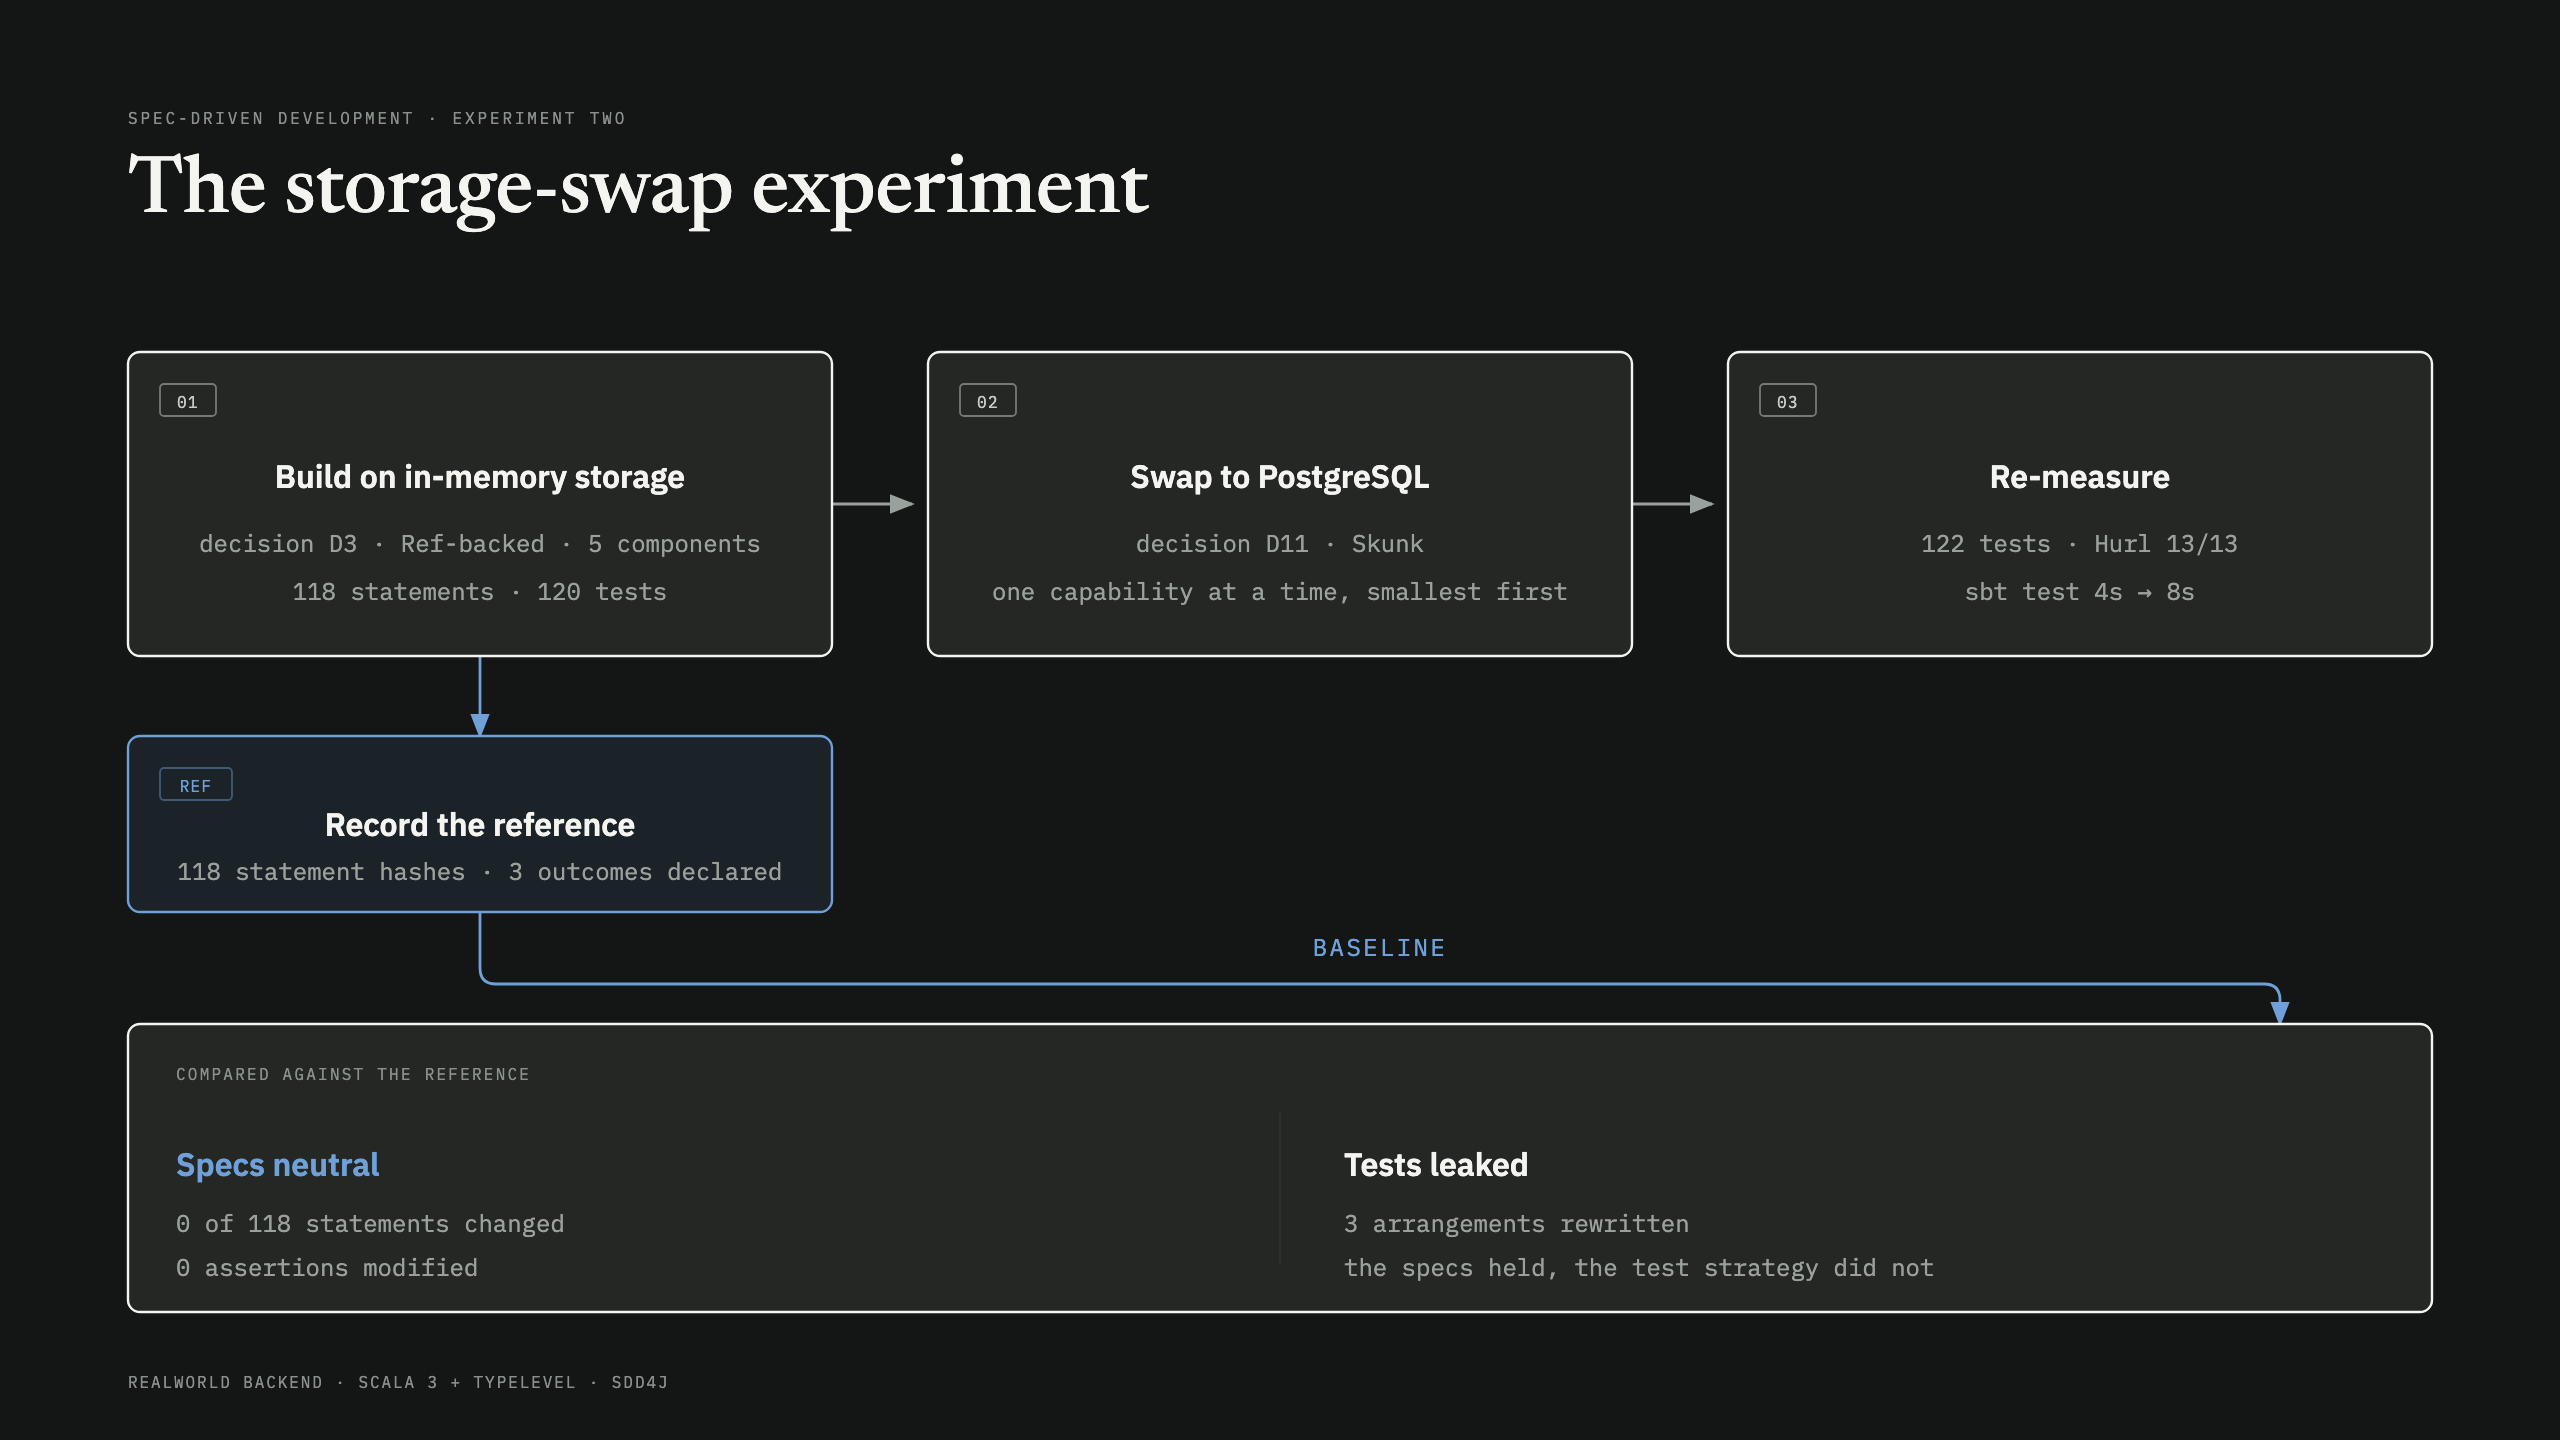
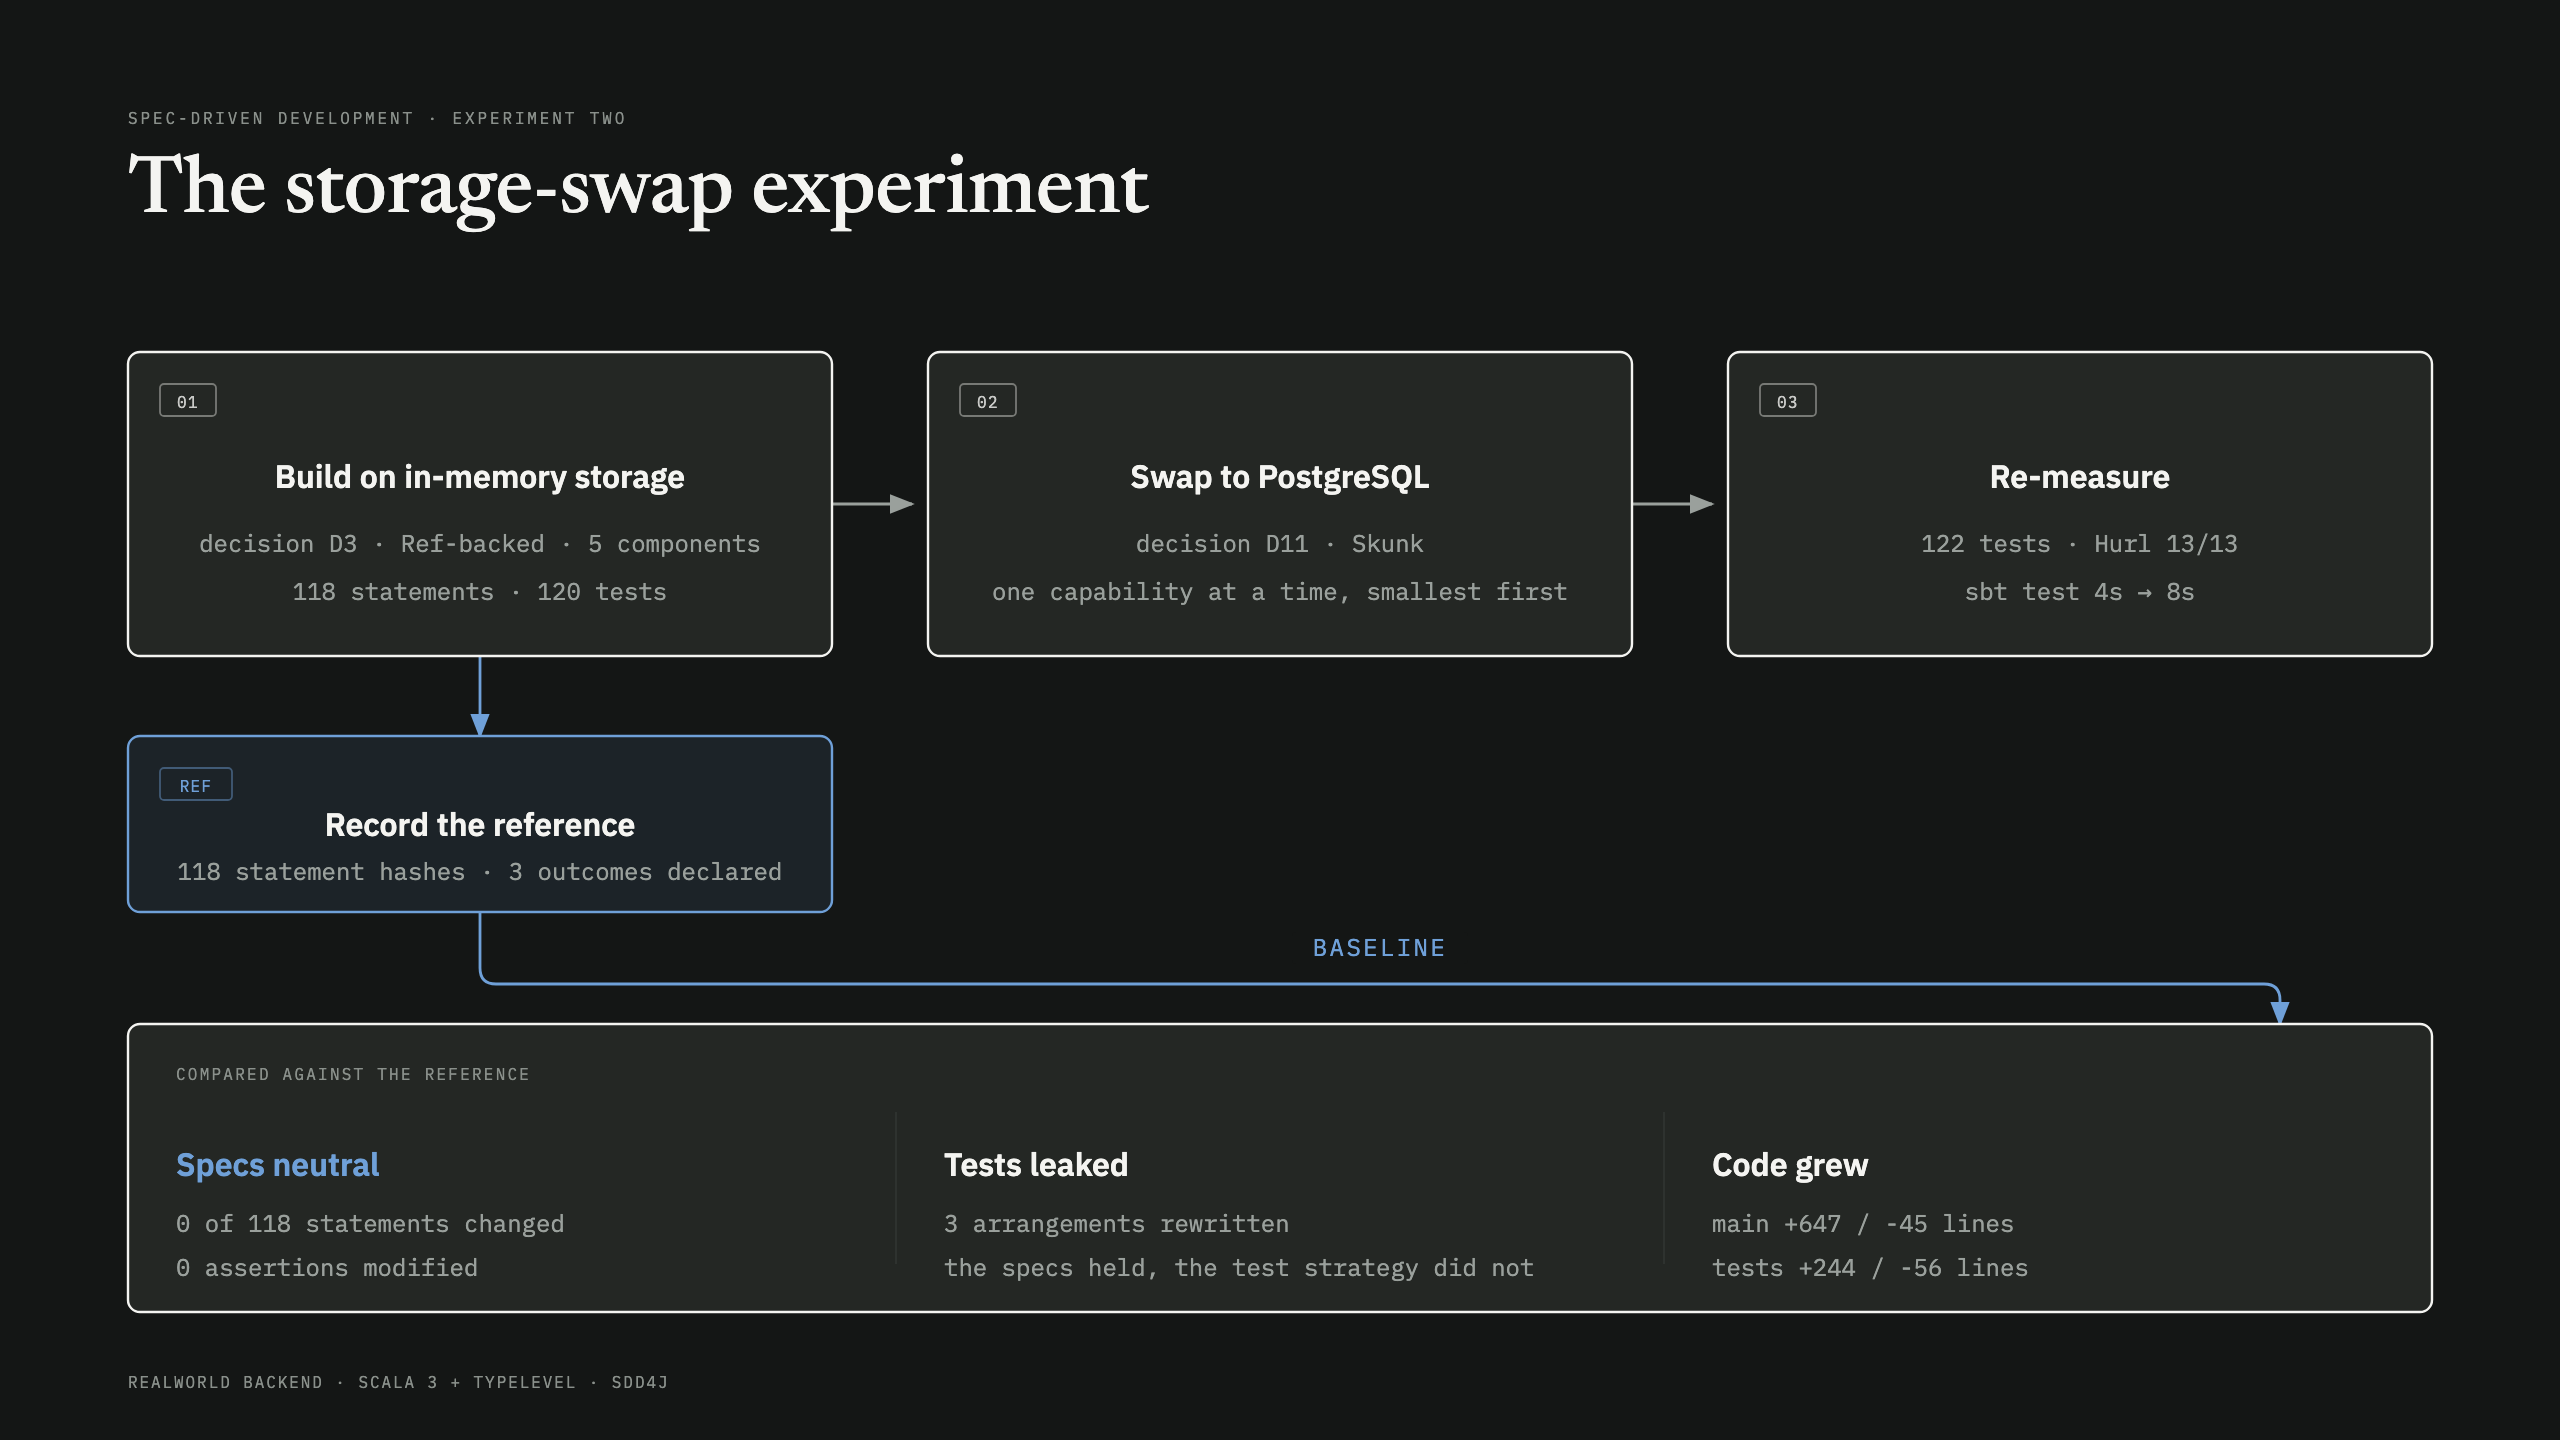
docs: add a code-delta column to the experiment figure
The talk carried a metrics table beside this figure, and five of its
seven rows were already here. The two that were not are the line
deltas, so they become a third comparison column and the table goes.

Segment layout moves from a two-column split at x=640 to three at 448
and 832; the alt text gains the same numbers.

Changed region(s): [[0.375, 0.7812, 0.7812, 0.9062], [0.5312, 0.7812, 0.5938, 0.8125], [0.375, 0.7812, 0.4375, 0.8125]]

diff --git a/docs/experiment-slide-dark.html b/docs/experiment-slide-dark.html
@@ -40,7 +40,7 @@
      and a slide image has to stand on its own once it is dropped into a deck. -->
 <svg viewBox="0 0 1280 720" role="img" aria-labelledby="swap-slide-dark-title swap-slide-dark-desc" xmlns="http://www.w3.org/2000/svg">
   <title id="swap-slide-dark-title">The storage-swap experiment</title>
-  <desc id="swap-slide-dark-desc">Three steps run left to right: build the backend on in-memory storage, swap it to PostgreSQL, then re-measure. A reference recorded under the first step, holding a hash of each of the 118 requirement statements and the three outcomes declared in advance, is carried across the slide to the comparison at the bottom. The specifications came through unchanged; three test arrangements did not.</desc>
+  <desc id="swap-slide-dark-desc">Three steps run left to right: build the backend on in-memory storage, swap it to PostgreSQL, then re-measure. A reference recorded under the first step, holding a hash of each of the 118 requirement statements and the three outcomes declared in advance, is carried across the slide to the comparison at the bottom. The specifications came through unchanged; three test arrangements did not, and the code grew by 647 lines of implementation and 244 of tests.</desc>
 
   <defs>
     <marker id="slide-dark-arrow" markerWidth="9" markerHeight="7" refX="8" refY="3.5" orient="auto">
@@ -127,17 +127,23 @@
   <rect x="64" y="512" width="1152" height="144" rx="6" fill="#242724" stroke="#F4F4F1" stroke-width="1.2"/>
   <text x="88" y="540" fill="#8A908B" font-size="8" font-family="'IBM Plex Mono', monospace"
         letter-spacing="0.14em">COMPARED AGAINST THE REFERENCE</text>
-  <line x1="640" y1="556" x2="640" y2="632" stroke="#2E322F" stroke-width="1"/>
+  <line x1="448" y1="556" x2="448" y2="632" stroke="#2E322F" stroke-width="1"/>
+  <line x1="832" y1="556" x2="832" y2="632" stroke="#2E322F" stroke-width="1"/>
 
   <text x="88" y="588" fill="#6FA0D8" font-size="16" font-weight="600"
         font-family="'IBM Plex Sans', sans-serif">Specs neutral</text>
   <text x="88" y="616" fill="#9AA09C" font-size="12" font-family="'IBM Plex Mono', monospace">0 of 118 statements changed</text>
   <text x="88" y="638" fill="#9AA09C" font-size="12" font-family="'IBM Plex Mono', monospace">0 assertions modified</text>
 
-  <text x="672" y="588" fill="#F4F4F1" font-size="16" font-weight="600"
+  <text x="472" y="588" fill="#F4F4F1" font-size="16" font-weight="600"
         font-family="'IBM Plex Sans', sans-serif">Tests leaked</text>
-  <text x="672" y="616" fill="#9AA09C" font-size="12" font-family="'IBM Plex Mono', monospace">3 arrangements rewritten</text>
-  <text x="672" y="638" fill="#9AA09C" font-size="12" font-family="'IBM Plex Mono', monospace">the specs held, the test strategy did not</text>
+  <text x="472" y="616" fill="#9AA09C" font-size="12" font-family="'IBM Plex Mono', monospace">3 arrangements rewritten</text>
+  <text x="472" y="638" fill="#9AA09C" font-size="12" font-family="'IBM Plex Mono', monospace">the specs held, the test strategy did not</text>
+
+  <text x="856" y="588" fill="#F4F4F1" font-size="16" font-weight="600"
+        font-family="'IBM Plex Sans', sans-serif">Code grew</text>
+  <text x="856" y="616" fill="#9AA09C" font-size="12" font-family="'IBM Plex Mono', monospace">main  +647 / -45 lines</text>
+  <text x="856" y="638" fill="#9AA09C" font-size="12" font-family="'IBM Plex Mono', monospace">tests +244 / -56 lines</text>
 
   <!-- ===== footer ===== -->
   <text x="64" y="694" fill="#8A908B" font-size="8" font-family="'IBM Plex Mono', monospace"

diff --git a/docs/experiment-slide.html b/docs/experiment-slide.html
@@ -40,7 +40,7 @@
      and a slide image has to stand on its own once it is dropped into a deck. -->
 <svg viewBox="0 0 1280 720" role="img" aria-labelledby="swap-slide-title swap-slide-desc" xmlns="http://www.w3.org/2000/svg">
   <title id="swap-slide-title">The storage-swap experiment</title>
-  <desc id="swap-slide-desc">Three steps run left to right: build the backend on in-memory storage, swap it to PostgreSQL, then re-measure. A reference recorded under the first step, holding a hash of each of the 118 requirement statements and the three outcomes declared in advance, is carried across the slide to the comparison at the bottom. The specifications came through unchanged; three test arrangements did not.</desc>
+  <desc id="swap-slide-desc">Three steps run left to right: build the backend on in-memory storage, swap it to PostgreSQL, then re-measure. A reference recorded under the first step, holding a hash of each of the 118 requirement statements and the three outcomes declared in advance, is carried across the slide to the comparison at the bottom. The specifications came through unchanged; three test arrangements did not, and the code grew by 647 lines of implementation and 244 of tests.</desc>
 
   <defs>
     <marker id="slide-arrow" markerWidth="9" markerHeight="7" refX="8" refY="3.5" orient="auto">
@@ -127,17 +127,23 @@
   <rect x="64" y="512" width="1152" height="144" rx="6" fill="#FFFFFF" stroke="#1A1C1B" stroke-width="1.2"/>
   <text x="88" y="540" fill="#8B908C" font-size="8" font-family="'IBM Plex Mono', monospace"
         letter-spacing="0.14em">COMPARED AGAINST THE REFERENCE</text>
-  <line x1="640" y1="556" x2="640" y2="632" stroke="#DEDFD8" stroke-width="1"/>
+  <line x1="448" y1="556" x2="448" y2="632" stroke="#DEDFD8" stroke-width="1"/>
+  <line x1="832" y1="556" x2="832" y2="632" stroke="#DEDFD8" stroke-width="1"/>
 
   <text x="88" y="588" fill="#1E3A5F" font-size="16" font-weight="600"
         font-family="'IBM Plex Sans', sans-serif">Specs neutral</text>
   <text x="88" y="616" fill="#636865" font-size="12" font-family="'IBM Plex Mono', monospace">0 of 118 statements changed</text>
   <text x="88" y="638" fill="#636865" font-size="12" font-family="'IBM Plex Mono', monospace">0 assertions modified</text>
 
-  <text x="672" y="588" fill="#1A1C1B" font-size="16" font-weight="600"
+  <text x="472" y="588" fill="#1A1C1B" font-size="16" font-weight="600"
         font-family="'IBM Plex Sans', sans-serif">Tests leaked</text>
-  <text x="672" y="616" fill="#636865" font-size="12" font-family="'IBM Plex Mono', monospace">3 arrangements rewritten</text>
-  <text x="672" y="638" fill="#636865" font-size="12" font-family="'IBM Plex Mono', monospace">the specs held, the test strategy did not</text>
+  <text x="472" y="616" fill="#636865" font-size="12" font-family="'IBM Plex Mono', monospace">3 arrangements rewritten</text>
+  <text x="472" y="638" fill="#636865" font-size="12" font-family="'IBM Plex Mono', monospace">the specs held, the test strategy did not</text>
+
+  <text x="856" y="588" fill="#1A1C1B" font-size="16" font-weight="600"
+        font-family="'IBM Plex Sans', sans-serif">Code grew</text>
+  <text x="856" y="616" fill="#636865" font-size="12" font-family="'IBM Plex Mono', monospace">main  +647 / -45 lines</text>
+  <text x="856" y="638" fill="#636865" font-size="12" font-family="'IBM Plex Mono', monospace">tests +244 / -56 lines</text>
 
   <!-- ===== footer ===== -->
   <text x="64" y="694" fill="#8B908C" font-size="8" font-family="'IBM Plex Mono', monospace"
